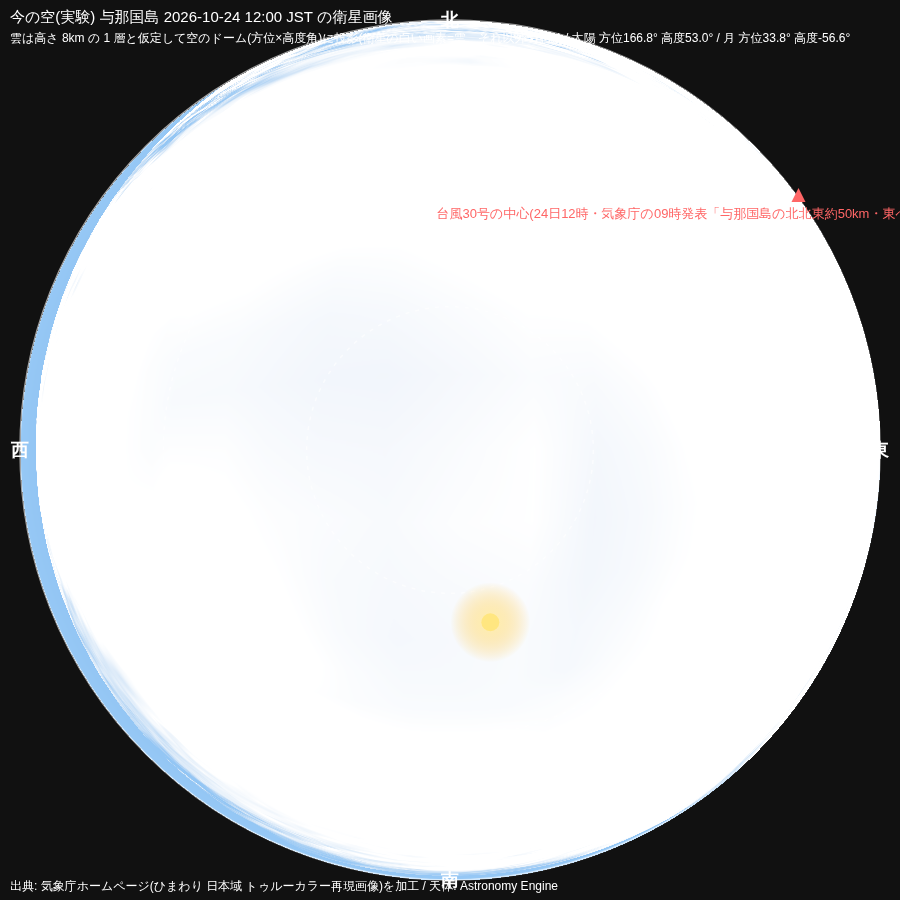
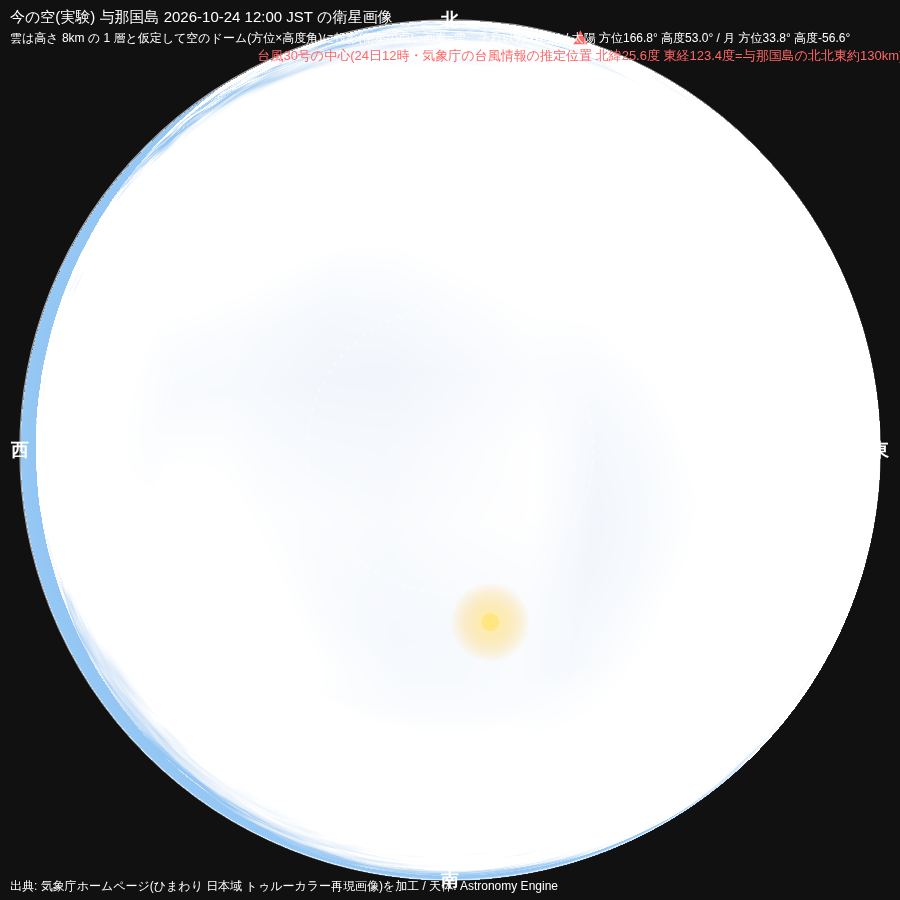
第195ラウンド — お茶の時間🫖 回答その193(青い空と 2 つの木・台風 30 号の目=気象庁の推定位置で再描画・燕岳の稜線を標高タイルから・MapLibre より先に別の族の探索・/docs/teatime 新設・Myサイト限定公開 3 案・Myプレイス「1 行に全部」に賛成・「私の癖と直し方」1 枚)+反証レビュー 41 件の反映+review ノート
Claude-Session: https://claude.ai/code/session_01CNXdkFEXiqKR3WRG7r1Umc

diff --git a/docs/teatime/sandbox/sky-dome/sky.html b/docs/teatime/sandbox/sky-dome/sky.html
@@ -14,6 +14,9 @@
   const OBS = CFG.obs;
   const TGT = CFG.tgt;
   const Z = CFG.zoom || 6, X0 = CFG.x0, Y0 = CFG.y0, N = 3, TS = 256, RE = 6371000; const TILEDIR = CFG.tiledir;
+  const RIDGE = CFG.ridge ? await (await fetch(CFG.ridge)).json() : null;  // 稜線(ridge.html が作る 方位→見かけの高度角)
+  const ridgeAt = (az) => { if (!RIDGE) return null; const n = RIDGE.az.length, st = RIDGE.stepAz; const f = ((az % 360) + 360) % 360 / st; const i0 = Math.floor(f) % n, i1 = (i0 + 1) % n, t = f - Math.floor(f); return { el: RIDGE.el[i0]*(1-t) + RIDGE.el[i1]*t, dist: RIDGE.dist[i0]*(1-t) + RIDGE.dist[i1]*t }; };
+  const groundColor = (dist) => { const t = Math.min(1, dist/100000); return [Math.round(38+72*t), Math.round(48+72*t), Math.round(38+97*t)]; };  // 近い山は暗く、遠い山は空気で青白く
   const d2r = Math.PI/180, r2d = 180/Math.PI;
   // ---- tiles → composite
   const map = document.getElementById('map'), mg = map.getContext('2d');
@@ -56,6 +59,7 @@
     const dx = px - C, dy = py - C, r = Math.hypot(dx, dy); const k = (py*W+px)*4;
     if (r > R) { D[k]=17; D[k+1]=17; D[k+2]=17; D[k+3]=255; continue; }
     const az = (Math.atan2(dx, -dy)*r2d + 360) % 360; const e = 90 - 90*r/R;
+    const rg = ridgeAt(az); if (rg && e < rg.el) { const gc = groundColor(rg.dist); D[k]=gc[0]; D[k+1]=gc[1]; D[k+2]=gc[2]; D[k+3]=255; continue; }
     const d = distForElev(e); const [la, lo] = dest(OBS.lat, OBS.lon, az, d); const c = paint(sample(la, lo), e);
     D[k]=c[0]; D[k+1]=c[1]; D[k+2]=c[2]; D[k+3]=255;
   }
@@ -71,13 +75,14 @@
   dg.textAlign = 'left'; dg.font = '15px sans-serif'; dg.fillStyle = '#fff';
   dg.fillText(`今の空(実験) ${OBS.name} ${jst.getUTCFullYear()}-${String(jst.getUTCMonth()+1).padStart(2,'0')}-${String(jst.getUTCDate()).padStart(2,'0')} ${String(jst.getUTCHours()).padStart(2,'0')}:${String(jst.getUTCMinutes()).padStart(2,'0')} JST の衛星画像`, 10, 22);
   dg.font = '12px sans-serif'; dg.fillText(`雲は高さ ${H/1000}km の 1 層と仮定して空のドーム(方位×高度角)に投影(衛星の白い画素=雲、それ以外=青空) / 太陽 方位${sun.az.toFixed(1)}° 高度${sun.alt.toFixed(1)}° / 月 方位${moon.az.toFixed(1)}° 高度${moon.alt.toFixed(1)}°`, 10, 42);
-  dg.fillText('出典: 気象庁ホームページ(ひまわり 日本域 トゥルーカラー再現画像)を加工 / 天体: Astronomy Engine', 10, W-10);
+  dg.fillText((RIDGE ? '出典: 気象庁ホームページ(ひまわり トゥルーカラー再現画像)・国土地理院 標高タイル を加工' : '出典: 気象庁ホームページ(ひまわり トゥルーカラー再現画像)を加工') + ' / 天体: Astronomy Engine', 10, W-10);
   // ---- window (宙の窓風: 槍ヶ岳の方位を中心に 水平60°×高度 -10〜40°)
   const win = document.getElementById('win'), wg = win.getContext('2d'); const WW = win.width, WH = win.height; const fov = 60, eMin = -10, eMax = 40;
   const wimg = wg.createImageData(WW, WH); const WD = wimg.data;
   for (let py=0; py<WH; py++) for (let px=0; px<WW; px++) {
     const az = (tgtAz - fov/2 + fov*px/WW + 360) % 360; const e = eMax - (eMax-eMin)*py/WH; const k = (py*WW+px)*4;
-    if (e < -dip) { WD[k]=35; WD[k+1]=45; WD[k+2]=35; WD[k+3]=255; continue; }
+    const rg = ridgeAt(az); const gnd = rg ? rg.el : -dip;
+    if (e < gnd) { const gc = rg ? groundColor(rg.dist) : [35,45,35]; WD[k]=gc[0]; WD[k+1]=gc[1]; WD[k+2]=gc[2]; WD[k+3]=255; continue; }
     const d = distForElev(Math.max(e, 0)); const [la, lo] = dest(OBS.lat, OBS.lon, az, d); const c = paint(sample(la, lo), Math.max(e, 0));
     WD[k]=c[0]; WD[k+1]=c[1]; WD[k+2]=c[2]; WD[k+3]=255;
   }
@@ -85,11 +90,12 @@
   const wxy = (az, alt) => { let da = ((az - tgtAz + 540) % 360) - 180; return [WW*(da + fov/2)/fov, WH*(eMax - alt)/(eMax-eMin)]; };
   { const [tx, ty] = wxy(tgtAz, tgtElev); wg.fillStyle = '#ff6666'; wg.beginPath(); wg.moveTo(tx, ty-12); wg.lineTo(tx-9, ty+5); wg.lineTo(tx+9, ty+5); wg.closePath(); wg.fill(); wg.fillStyle='#fff'; wg.font='14px sans-serif'; wg.textAlign='center'; wg.fillText(`${TGT.name} 方位${tgtAz.toFixed(1)}° 高度${tgtElev.toFixed(1)}°`, tx, ty+24); }
   if (sun.alt > 0) { const [sx, sy] = wxy(sun.az, sun.alt); if (sx>=0 && sx<=WW && sy>=0 && sy<=WH) { wg.fillStyle = '#ffe680'; wg.beginPath(); wg.arc(sx, sy, 12, 0, 2*Math.PI); wg.fill(); } }
-  wg.strokeStyle = 'rgba(255,255,255,0.5)'; wg.beginPath(); const hy0 = wxy(tgtAz, -dip)[1]; wg.moveTo(0, hy0); wg.lineTo(WW, hy0); wg.stroke();
+  if (RIDGE) { wg.strokeStyle = 'rgba(255,255,255,0.6)'; wg.lineWidth = 1; wg.beginPath(); for (let px=0; px<=WW; px++) { const az = (tgtAz - fov/2 + fov*px/WW + 360) % 360; const y = wxy(az, ridgeAt(az).el)[1]; px ? wg.lineTo(px, y) : wg.moveTo(px, y); } wg.stroke(); }
+  else { wg.strokeStyle = 'rgba(255,255,255,0.5)'; wg.beginPath(); const hy0 = wxy(tgtAz, -dip)[1]; wg.moveTo(0, hy0); wg.lineTo(WW, hy0); wg.stroke(); }
   wg.fillStyle = '#fff'; wg.font = '14px sans-serif'; wg.textAlign = 'left';
-  wg.fillText(`宙の窓風(実験) ${OBS.name} → ${TGT.name} の方位を中心に 水平60°×高度-10〜40° / 白線=眼高の伏角込みの地平線(-${dip.toFixed(1)}°) / 稜線は未実装`, 10, 20);
-  wg.fillText('出典: 気象庁ホームページ(ひまわり画像)を加工', 10, WH-10);
-  window.__info = { cfg: CFGN, vt, jst: jst.toISOString(), sun, moon, moonIllum, tgtAz, tgtD, tgtElev, dip, horizonKm, H };
+  wg.fillText(`宙の窓風(実験) ${OBS.name} → ${TGT.name} の方位を中心に 水平60°×高度-10〜40° / ${RIDGE ? `白線=稜線(国土地理院 標高タイル zoom ${RIDGE.tiles.z}・気差 k=${RIDGE.k})` : `白線=眼高の伏角込みの地平線(-${dip.toFixed(1)}°) / 稜線は未実装`}`, 10, 20);
+  wg.fillText(RIDGE ? '出典: 気象庁ホームページ(ひまわり画像)・国土地理院 標高タイル を加工' : '出典: 気象庁ホームページ(ひまわり画像)を加工', 10, WH-10);
+  window.__info = { cfg: CFGN, vt, jst: jst.toISOString(), sun, moon, moonIllum, tgtAz, tgtD, tgtElev, dip, horizonKm, H, ridgeAtTgt: RIDGE ? ridgeAt(tgtAz) : null };
   window.__pngs = { map: map.toDataURL('image/png'), dome: dome.toDataURL('image/png'), win: win.toDataURL('image/png') };
   window.__done = true;
 })().catch(e => { window.__err = String(e && e.stack || e); window.__done = true; });

diff --git a/docs/teatime/sandbox/sky-dome/ridge.html b/docs/teatime/sandbox/sky-dome/ridge.html
@@ -1,0 +1,34 @@
+<!doctype html><html><head><meta charset="utf-8"><title>ridge</title></head><body>
+<canvas id="c"></canvas>
+<script>
+(async () => {
+  const q = new URLSearchParams(location.search); const CFGN = q.get('cfg') || 'ridge_cfg.json';
+  const CFG = await (await fetch(CFGN)).json(); const META = await (await fetch(CFG.dem_meta)).json();
+  const Z = META.z, X0 = META.x0, Y0 = META.y0, N = META.n, TS = 256, RE = 6371000, d2r = Math.PI/180, r2d = 180/Math.PI;
+  const OBS = CFG.obs; const EYE = CFG.eye || 1.5; const K = CFG.k ?? 0.13; const REFF = RE/(1-K);
+  const STEP_AZ = CFG.stepAz || 0.2, DMAX = CFG.dmax || 150000, STEP_D = CFG.stepD || 100;
+  const c = document.getElementById('c'); c.width = N*TS; c.height = N*TS; const g = c.getContext('2d', { willReadFrequently: true });
+  let loaded = 0, missing = [];
+  await Promise.all([...Array(N*N).keys()].map(i => new Promise(res => { const tx = X0 + (i % N), ty = Y0 + Math.floor(i / N); const im = new Image();
+    im.onload = () => { g.drawImage(im, (i%N)*TS, Math.floor(i/N)*TS); loaded++; res(); }; im.onerror = () => { missing.push([tx,ty]); res(); }; im.src = `${CFG.demdir}/dem_${Z}_${tx}_${ty}.png`; })));
+  const data = g.getImageData(0, 0, c.width, c.height).data;
+  const n = Math.pow(2, Z);
+  const toPix = (lat, lon) => { const x = (lon+180)/360*n*TS - X0*TS; const phi = lat*d2r; const y = (1 - Math.log(Math.tan(phi) + 1/Math.cos(phi))/Math.PI)/2*n*TS - Y0*TS; return [x, y]; };
+  const hAt = (xx, yy) => { if (xx<0||yy<0||xx>=c.width||yy>=c.height) return 0; const k = (yy*c.width+xx)*4; const r=data[k], gg=data[k+1], b=data[k+2]; if (data[k+3] === 0) return 0; let v = r*65536 + gg*256 + b; if (v === 8388608) return 0; if (v > 8388608) v -= 16777216; return v*0.01; };
+  const elev = (lat, lon) => { const [x, y] = toPix(lat, lon); const x0 = Math.floor(x), y0 = Math.floor(y), fx = x-x0, fy = y-y0; return hAt(x0,y0)*(1-fx)*(1-fy) + hAt(x0+1,y0)*fx*(1-fy) + hAt(x0,y0+1)*(1-fx)*fy + hAt(x0+1,y0+1)*fx*fy; };
+  const dest = (lat, lon, brg, dist) => { const φ1 = lat*d2r, λ1 = lon*d2r, δ = dist/RE, θ = brg*d2r; const φ2 = Math.asin(Math.sin(φ1)*Math.cos(δ)+Math.cos(φ1)*Math.sin(δ)*Math.cos(θ)); const λ2 = λ1 + Math.atan2(Math.sin(θ)*Math.sin(δ)*Math.cos(φ1), Math.cos(δ)-Math.sin(φ1)*Math.sin(φ2)); return [φ2*r2d, λ2*r2d]; };
+  const h0 = (OBS.h ?? elev(OBS.lat, OBS.lon)) + EYE; const demH0 = elev(OBS.lat, OBS.lon);
+  const az = [], el = [], dist = [], top = [];
+  for (let a = 0; a < 360; a += STEP_AZ) {
+    let best = -90, bd = 0, bh = 0;
+    for (let d = STEP_D; d <= DMAX; d += STEP_D) {
+      const [la, lo] = dest(OBS.lat, OBS.lon, a, d); const h = elev(la, lo);
+      const e = Math.atan2(h - h0, d)*r2d - (d/(2*REFF))*r2d;
+      if (e > best) { best = e; bd = d; bh = h; }
+    }
+    az.push(+a.toFixed(2)); el.push(+best.toFixed(3)); dist.push(Math.round(bd)); top.push(Math.round(bh));
+  }
+  window.__ridge = { obs: OBS, eye: EYE, k: K, h0, demH0, stepAz: STEP_AZ, dmax: DMAX, stepD: STEP_D, tiles: { z: Z, loaded, missing }, az, el, dist, top, source: '国土地理院 標高タイル(dem_png, zoom ' + Z + ')' };
+  window.__done = true;
+})().catch(e => { window.__err = String(e && e.stack || e); window.__done = true; });
+</script></body></html>

diff --git a/docs/teatime/sandbox/sky-dome/ridge.js b/docs/teatime/sandbox/sky-dome/ridge.js
@@ -1,0 +1,13 @@
+// node ridge.js ridge_cfg.json  — ridge.html を http://127.0.0.1:8101/ で配っている前提。<cfg名>.out.json に稜線(方位→見かけの高度角)を書く。
+const { chromium } = require('playwright-core'); const fs = require('fs'); const path = require('path');
+(async () => {
+  const cfgs = process.argv.slice(2); if (!cfgs.length) { console.log('usage: node ridge.js cfg.json ...'); process.exit(1); }
+  const b = await chromium.launch({ executablePath: process.env.CHROME || '/opt/pw-browsers/chromium-1194/chrome-linux/chrome' }); const p = await b.newPage();
+  for (const cfg of cfgs) {
+    await p.goto('http://127.0.0.1:8101/ridge.html?cfg=' + encodeURIComponent(cfg)); await p.waitForFunction(() => window.__done, null, { timeout: 300000 });
+    const err = await p.evaluate(() => window.__err); if (err) { console.log('ERR', cfg, err); continue; }
+    const r = await p.evaluate(() => window.__ridge); const out = path.basename(cfg, '.json') + '.out.json'; fs.writeFileSync(out, JSON.stringify(r));
+    const mx = Math.max(...r.el), i = r.el.indexOf(mx); console.log(JSON.stringify({ cfg, out, h0: r.h0, demH0: r.demH0, tiles: r.tiles, maxEl: mx, atAz: r.az[i], dist: r.dist[i], top: r.top[i] }));
+  }
+  await b.close();
+})();

diff --git a/ClaudeMederuU/reviews/2026-10-24-round195-review.md b/ClaudeMederuU/reviews/2026-10-24-round195-review.md
@@ -1,0 +1,27 @@
+# レビュー記録 2026-10-24 — 第195ラウンド: お茶の時間🫖 — 青い空と 2 つの木・台風 30 号の目・MapLibre より先に探索・/docs/teatime 新設・Myサイト限定公開 3 案・Myプレイス「1 行に全部」・「私の癖と直し方」1 枚
+
+依頼: 写真 4 枚(明治神宮の青い空と 2 つの木・荒木健太郎さんの Instagram のトゥルーカラー再現画像・YAMAP と note の利用者の声 2 枚)。台風 30 号(与那国島の北北東 50km)の目をひまわりで撮ってみては。SCW の 10 分刻みは GPV にもあるのでは。MapLibre の版上げより別の族の探索を先に、に 1 票(意見は?)。`/docs/teatime` を作ってお茶の時間の記録を残す(YYYY-MM-DD・雉撃ちお花摘み・sandbox→tools へ昇格)提案。Myサイトの「かくれんぼしていた」メモ(複製不可・限定公開・個人情報を持たない・確実に無料枠・課金上限 月 1〜3 万円。複数案を切磋琢磨)。Myプレイスは「入力枠を全て用意して 1 行に」(観測点 4 列・目的点 4 列・基準方位の 8 方位ドロップダウン↔基準方位角・基準視高度)。「今回のラウンドで MederuU の器に入れる下ごしらえを」。「実験の続きは今やっても大丈夫」。
+
+## 実施内容
+
+1. 写真への返事。明治神宮の 1 枚だけ 1600px に縮めて `docs/teatime/2026-10-24/` に置いた(置いてよいと言われた物)。他の人の投稿のスクリーンショット 3 枚は置かず、文で記録(お約束②)。2 枚目は衛星(ひまわりのトゥルーカラー再現画像・全球 10 分/日本域 2.5 分)で GPV ではない、SCW の 10 分刻みも衛星表示、GPV は MSM 1 時間のまま、と 1 行目で言い切った(第189の学び「前提は正面から直す」)。
+2. 台風 30 号の目: 与那国島を観測点に 12:00 JST(03:00 UTC)のひまわりを描いた。中心は最初は依頼者のメモから東へ外挿していたが(方位 54°・79km)、反証レビューが気象庁の台風情報(TC2636)との約 70km のずれを見つけ、12 時推定位置 25.6N 123.4E(北北東約 130km・方位約 18°・約 132km)に置き直して再描画。日本域 zoom 6 は与那国島が範囲の端で左下が欠けたので、全球域 fd(最大 zoom 5・約 4km/画素)を足し、sky.html に `zoom` の設定を追加。結果: 目は映らず(中心付近は厚い雲・985hPa・30m/s で「強い」の一歩手前)。ドームはほぼ全天が雲。絵 3 枚(全球域の地図は 1.3MB の PNG を Chromium の canvas で JPEG 173KB に)。
+2'. 実験の続き(「今やっても大丈夫」): 燕岳の稜線。国土地理院 dem_png zoom 10 を 9×9 枚(海の 9 枚は 404=0m)、山頂+1.5m から 0.2° 刻み全方位・150km・100m 歩きで見かけの高度角の最大(k=0.13)。3 秒。槍ヶ岳の方位で 1.6〜1.8°(山頂は 2.5°。zoom 10 の丸まり)。sky.html に `ridge` を足し、窓とドームの稜線より下を地面の色(距離で青白く)に。絵 2 枚を teatime に、ridge.html/ridge.js/JSON を sandbox に。赤外の雲頂は次回。
+3. MapLibre: 依頼者の 1 票に賛成。CVE-2026-85061(GHSA-jrc7-96c5-q579・<=6.4.0・修正 6.4.1)は attribution が定数だけなので到達不能(第185の監査)=急ぐ理由なし。順番「探索→画面周り→版上げ(6.4.1 以上・type=module)」を todo の行に追記。
+4. `/docs/teatime` を作成: README(お約束 4 つ・置き方・索引=過去のお茶は order-log へリンク)・2026-10-23/(燕岳のドームと窓)・2026-10-24/(写真・台風の絵 3 枚)・kijiutchi-ohanatsumi/・sandbox/sky-dome/(設定ファイル化した render.js・sky.html・cfg 3 本・README)。CLAUDE.md/AGENTS.md の表に 1 行。todo に DECISION。
+5. Myサイト: デッサン 09 の末尾に第195の節(要件・前提・案A 鍵つき URL+暗号化・案B Cloudflare Workers の鍵の受付係・案C Google に任せる・照合表・推奨 A→B・判断事項・出典)。回答は骨だけ+「次はたけちゃんの案D」。
+6. Myプレイス「1 行に全部」: 賛成(前回の自分の案より利用者に分かりやすい)。作る時の決め 5 つ(計算値と手入力の区別・8 方位↔方位角 ±22.5°・My辻/My宙の参照は placeId 1 つ・観測点高 1.5m/目的点高 0 はそのまま・写位の GPSImgDirection)。todo 備忘録に追記。
+7. 下ごしらえ: review ノート 175 枚の「学び」661 件(学びの節の中の太字)を読み返し、12 の癖に畳んで `ClaudeMederuU/knowledge/claude-habits.md`(早見表+癖ごとの起きた事/直し方/合図+使い方)。
+8. 反証レビュー(Workflow 3 レンズ: 事実と技術・網羅と口調と約束・癖の 1 枚の引用の検証)。所見 41 件(must-fix 7・should-fix 19・nit 15。レンズ別: facts 13件(must 2/should 6/nit 5)・tone 15件(must 3/should 6/nit 6)・habits 13件(must 2/should 7/nit 4))。取り込んだ物: 台風の中心を気象庁の 12 時推定位置に置き直して 3 枚を再描画(外挿で約 70km ずれていた)・「弱い台風」を実況(985hPa・30m/s・大型)に差し替え・トゥルーカラー再現画像の開発元を気象衛星センター+NOAA GOES-R 画像チーム(CIRA の補正)に訂正しバンドを 5 つに・SCW は「おそらく」に弱めて予報側は 1 時間と明記・10 分の格子はレーダー等の観測側と注記・MapLibre は 6.4.1→最新(6.15.0・少なくとも 6.11.1)で v6 は UMD 無しと指紋/MANIFEST/sw-precache の波及・WebGL2 は v5 から・お約束 4 つの出典を 2026-08-21 回答その110 に直して原文のまま引用し、他人の投稿を置かないは teatime の置き方の決めとして分離・雉撃ちの最初の記録は「まだ撃っていない」だけ・「複製不可」の実力を「うっかりの一括書き出しまで、守りの実体は鍵の配り方と透かし」に・Google Cloud を名指しされていたので予算は通知で止まらないと 1 行(公式ページ)・案B の鍵の主語は写真家さん・Cloudflare の無料枠は「超えたら自動で失敗」・「次はたけちゃんの番」をやめて案B の骨が依頼者の案だと明記・「今やっても大丈夫」に稜線で応える(2' 節)・進め方の相談は 8. の締めへ(お茶は続く)・10. を 1 行で返せる 3 問に・zoom 5 は約 4.5km/画素・3 文以上の行を 7 箇所分割・習慣の 1 枚は引用の反転 5 件(第49/48/39/32・54/114)と回数(pkill 4 度目)と語(本日 2 度目・アスタリスク+スラッシュ)と出典の番号付け・「学び」は太字の箇条と注記・CLAUDE.md の締め手順への 1 句は 10. で質問。受け入れ(直さず): 画像は 500KB 目安のまま(全球域の地図は JPEG に)。
+9. 回帰: スモーク 10 本+道具 3 本=157 PASS/0 FAIL(ハーネス 0)。プログラムの変更なし・ピンの意図更新なし。
+
+## 学び(次の私へ)
+
+- **タイルの「域」は 1 つではない** — 日本域(jp)は与那国島のすぐ南西で切れていて、地図の左下が黒くなった。全球域(fd)は最大 zoom 5 だが全体が入る。範囲外が黒い絵を見たら、別の域(別の配信面)を探してから「限界」と書く。zoom を設定にしておけば切り替えは 1 行。
+- **台風の中心は気象庁の解析から取る(外挿しない)** — 依頼者のメモ(09 時・北北東 50km・東へ 15km/h)から 3 時間ぶん東へ外挿して印を置いたら、気象庁の 12 時推定(北北東約 130km)から約 70km ずれていた。台風は東でなく北北東へ曲がっていた。bosai/typhoon/data/TC2636/specifications.json を 1 回取れば位置・気圧・風速・階級が全部ある。レビューが拾った。
+- **進む速さと強さを混ぜない** — 「時速 15km の弱い台風だから目が無い」と書いたが、15km/h は移動速度で、実況は 980〜985hPa・最大風速 30m/s・大型(「強い」の一歩手前)。気象庁は 2000 年に「弱い台風」の表現を廃止している。目が見えなかった理由は「中心が厚い雲に覆われ、2〜4.5km/画素では判別できない」と、見た事だけを書く。
+- **「再現画像」は衛星の言葉** — トゥルーカラー再現画像は衛星の合成画像で、GPV の名前ではない。依頼者の推論(SCW が 10 分刻み→GPV に 10 分刻みがある)は、前提の 1 語(再現)を正しく読むだけで解ける。前提を直す時は 1 行目で言い切り、代わりの入口(ひまわりのタイル・P-Tree)を同じ段に置く。
+- **稜線は「全方位に歩いて最大の角度」で 3 秒** — 可視判定の経路歩きと同じ考えで、標高タイルを canvas に敷いて 1,800 方位×1,500 歩を JS で回すと 3 秒。zoom 10 では山頂が 50〜130m 丸まるので角度は 0.5° ほど低く出る。「未実装」と書いて先送りするより、粗い版を 1 枚出して限界を数字で書く方が、次の一手(zoom を上げる)が決まる。
+- **大きな PNG は canvas で JPEG に** — PIL が無い箱でも、Playwright の canvas.toDataURL('image/jpeg', 0.85) で 1.3MB→173KB。写真の縮小(第194)と同じ道具で足りる。リポジトリの画像の上限(500KB 目安)を決めたら、置く前に ls -la で見る。
+- **学びの要約は「題名だけ」を先に抜く** — 661 件の本文を全部読むと 2,000 行で、文脈が切れる。`### ファイル名` と太字の題名だけを抜く(1,100 行)と、癖の束が見える。本文は束に入れる時に戻って読む。数(175 枚・661 件)は awk で数えて、数え方も 1 枚に書く。
+- **提案は「作ってから聞く」でよい物と「聞いてから作る」物を分ける** — teatime のフォルダは可逆(消せる)で依頼者の提案そのものなので、作ってから「この置き方でよいか」を聞いた。Myサイトの案A の試作は依頼者の判断(案D を出すと言っている)が先なので、作らずに聞いた。

diff --git a/docs/dessin/dessin/09-mysite.md b/docs/dessin/dessin/09-mysite.md
@@ -584,7 +584,7 @@ Myサイトのスプレッドシートには、複数のシートがある。
 
 #### 前提の整理(AI)
 
-- 「複製不可」の実力: 画面に出した物は、撮影や手打ちで写せる。技術で防げるのは「一括の持ち出し」(ダウンロード・コピー・API での吸い出し)と、「流出元の特定」(透かし)まで。
+- 「複製不可」の実力: 画面に出した物は、撮影や手打ちで写せる。しかも案A/B は見る側の端末で復号するので、鍵を持つ人が開発者ツールから一括で吸い出す事は防げない。技術で防げるのは「うっかりの一括書き出し」(CSV 出力・コピー)までで、守りの実体は鍵の配り方(期限・失効・グループ)と「流出元の特定」(透かし)。
   - Google ドライブには「閲覧者とコメント権限のユーザーに、ダウンロード・印刷・コピーのオプションを表示しない」設定がある(ファイル単位・ウェブのみ・編集者には効かない)。抑止であって防御ではない。
 - 「個人情報を持たない」= 人をメールや名前で識別せず、ランダムな鍵で識別する。鍵は「持っている人が正当」という割り切り(URL の共有と同じ性質)。
 - 3 区分: 全公開(今の gviz 読み)/限定公開(鍵が要る・複製不可モード)/非公開(持ち主だけ)。
@@ -601,12 +601,14 @@ Myサイトのスプレッドシートには、複数のシートがある。
 
 #### 案B「鍵の受付係」(Cloudflare Workers+KV。無料枠が「確実に止まる」)
 
+- 依頼者の名指しは Google Cloud だったが、Google Cloud の予算(Budget)は通知で支出を止めず、自動停止には Pub/Sub+Cloud Functions で課金を外す細工が要る(公式ドキュメント「Budgets don't cap spending」)。無料枠を超えた時に自動で止まる Cloudflare Workers Free を主案にし、Google Cloud(Cloud Run)は着手時にもう一度公式ページで比べる。
+
 - 小さなサーバー(Workers)が「アクセスキー→有効期限・グループ・中身の場所(または復号鍵)」の表(KV)を持ち、鍵が合えば中身(か案A の復号鍵)を返す。
 - 持ち主は自分の Google シートで鍵を管理し(ID・鍵・期限・グループ)、宙の辻の持ち主メニューから Workers の表に書き込む(持ち主の操作だけに持ち主の鍵が要る)。
 - できる事: 有効期間(何月何日まで)・即時失効・グループごとの鍵・回数や頻度の制限・2 段階(TOTP=Google 認証アプリ。秘密はグループ単位で KV に)・将来はパスキー(WebAuthn。端末に鍵を結びつけ、パスワード不要)。
 - 見る側: 「ID と長い鍵」をブラウザのパスワード管理に覚えさせる(依頼者の着眼=スマホで便利)。鍵はこちらが生成して配る(使い回しが起きない・期限つき・グループ別に発行)。
 - 個人情報: 鍵とグループ名だけ(メール無し)。宙の辻にも写真家さんにも個人情報は残らない。
-- 費用(2026-10 時点の公式ページ): Workers Free=1 日 10 万リクエスト・超えると止める設定(fail closed)ができる=「確実に無料枠」。Workers Paid=$5/月で月 1,000 万リクエストまで、以後 $0.30/100 万件(予測できる)。KV Free=読み 10 万/日・書き 1,000/日・1GB。
+- 費用(2026-10 時点の公式ページ): Workers Free=1 日 10 万リクエスト・超えた分は自動で失敗する(Error 1027。独自ドメインの route なら fail open/closed を選べる)=課金に転ばない「確実に無料枠」。Workers Paid=$5/月で月 1,000 万リクエストまで、以後 $0.30/100 万件(予測できる)。KV Free=読み 10 万/日・書き 1,000/日・1GB。
 - 弱点: サーバーの運用(デプロイ・Cloudflare アカウントの秘密の保管・CSP の connect-src への追加)。今の利用者数(土日 5 人)には大げさ。
 
 #### 案C「Google に任せる」(今のデッサン本文の線: ドライブの閲覧権限+ログイン+Picker)

diff --git a/docs/teatime/sandbox/sky-dome/README.md b/docs/teatime/sandbox/sky-dome/README.md
@@ -1,12 +1,13 @@
 # sky-dome — ひまわりの画像を「空のドーム」に投影する試作
 
-第194ラウンド(2026-10-23)の「今の空」の最初の 1 枚。第195で設定ファイル化して与那国島(台風 30 号)も描いた。
+第194ラウンド(2026-10-23)の「今の空」の最初の 1 枚。第195で設定ファイル化して与那国島(台風 30 号)も描き、稜線(国土地理院の標高タイルから求めた地平線の形)を足した。
 
 ## 何をする物
 
 - 気象庁ホームページのひまわり日本域トゥルーカラー再現画像(タイル・最大ズーム 6=約 2km/画素)を 3×3 枚取り、観測点から見た空のドーム(方位×高度角・等距離射影)と、宙の窓風の 1 枚(ある方位を中心に水平 60°)と、地図に描く。
 - 雲は「高さ H の 1 層」と仮定(設定の cloudH)。衛星の白い画素=雲、それ以外=青空(地面の色は空に貼らない)。
 - 太陽と月は宙の辻と同じ Astronomy Engine(vendor/astronomy.browser.min.js を同じフォルダに置く)。
+- 稜線(任意): `ridge.html`+`ridge.js` が、国土地理院の標高タイル(dem_png・zoom 10・約 120m/画素)を観測点の周り 9×9 枚読み、全方位(0.2° 刻み)に 150km まで 100m ずつ歩いて見かけの高度角の最大(気差 k=0.13・地球の丸み込み)を求める。結果の JSON を cfg の `ridge` に渡すと、窓とドームの稜線より下を地面の色(近い山は暗く、遠い山は青白く)で塗る。
 
 ## 使い方(箱の中で)
 
@@ -19,14 +20,16 @@
    ```
 2. 設定を書く(cfg_*.json): `time`(時刻ファイル)・`tiledir`・`zoom`(省略時 6。全球域 fd は最大 5)・`x0`・`y0`・`obs`(観測点 name/lat/lon/h)・`tgt`(印を付ける地点)・`cloudH`。
 3. このフォルダを `python3 -m http.server 8100` で配り、`node render.js cfg_xxx.json`(playwright-core と Chromium が要る。kaiki のハーネスと同じ)。`out/` に map/dome/win の PNG が出る。
+4. 稜線を出す時(任意): 標高タイルを `dem/dem_10_{x}_{y}.png` に取り(`https://cyberjapandata.gsi.go.jp/xyz/dem_png/10/{x}/{y}.png`。観測点のタイルを中心に ±4)、`dem_meta.json` に {z,x0,y0,n} を書き、`ridge_xxx.json`(dem_meta・demdir・obs・eye・k・stepAz・dmax・stepD)を用意して、`python3 -m http.server 8101` で配りながら `node ridge.js ridge_xxx.json`。`ridge_xxx.out.json` ができるので cfg の `ridge` に書く(燕岳の例: ridge_tsubakuro.json → ridge_tsubakuro.out.json)。海のタイルは 404 で、0m として扱う。
 
 ## 限界(2026-10-24 時点)
 
-- 日本域(jp)タイルはズーム 6 が最大で約 2km/画素。雲の縁は粗い。全球域(fd)はズーム 5 が最大(約 4km/画素)で、日本域の範囲外(与那国島の南西など)はこちらで描く(cfg の `zoom` と `tiledir`、URL の `jp` を `fd` に)。
+- 日本域(jp)タイルはズーム 6 が最大で約 2km/画素。雲の縁は粗い。全球域(fd)はズーム 5 が最大(赤道で約 4.9km/画素・北緯 25 度で約 4.5km/画素)で、日本域の範囲外(与那国島の南西など)はこちらで描く(cfg の `zoom` と `tiledir`、URL の `jp` を `fd` に)。
 - 雲の高さは 1 層の仮定。赤外(B13 の輝度温度)を使えば目安が付く。
-- 稜線は未実装(地平線は眼高の伏角だけ)。
+- 稜線は zoom 10 の標高(約 120m/画素)なので、山頂は 50〜130m 低く丸まり、見かけの高度角は山頂そのものより 0.5° ほど低い(槍ヶ岳: 山頂 2.5° に対し稜線 1.6〜1.8°)。zoom 12〜14 の標高タイルにすれば細かくなる(枚数は 16〜256 倍)。
 - 雲らしさは色と明るさの簡単な式で、雪や海面の反射を雲と見誤る。
 
 ## 出典
 
 - 気象庁ホームページ(ひまわり画像)。利用規約は公共データ利用規約(第1.0版)。加工して使う時は出典と加工の明記。
+- 国土地理院 標高タイル(dem_png)。地理院タイルの利用規約(出典の明記)。

diff --git a/docs/teatime/2026-10-24/README.md b/docs/teatime/2026-10-24/README.md
@@ -6,17 +6,25 @@
 ![明治神宮 青い空と 2 つの木](meiji-jingu-blue-sky-two-trees.jpg)
 
 - 依頼者の勧めで、台風 30 号の目をひまわりで。
-  - 気象庁の 24 日 09 時の発表「与那国島の北北東約 50km・時速 15km で東へ」から、12 時の中心を 3 時間ぶん東へ動かして推定した(観測点は与那国島)。
-  - 12:00 JST(03:00 UTC)の画像を 2 種類使った。日本域(zoom 6・約 2km/画素)は与那国島が範囲の端で左下が欠ける。全球域(zoom 5・約 4km/画素)は粗いが台風の全体が入る。
-  - 結果: はっきりした「目」は見えなかった(時速 15km の弱い台風で、雲の塊の渦だけ)。目が映るのは発達した台風で、次の機会に取る。
+  - 観測点は与那国島。中心は気象庁の台風情報(TC2636)の 12 時の推定位置 北緯 25.6 度・東経 123.4 度(与那国島の北北東約 130km・北北東へ 15km/h・985hPa・最大風速 30m/s・大型)。
+  - 最初の下書きは依頼者のメモ(09 時・北北東 50km・東へ 15km/h)から東へ外挿した位置(方位 54°・79km)に印を置いていて、レビューで約 70km のずれが見つかり、気象庁の推定位置に置き直した。台風は東ではなく北北東へ曲がっていた。
+  - 12:00 JST(03:00 UTC)の画像を 2 種類使った。日本域(zoom 6・約 2.2km/画素)は与那国島が範囲の端で左下が欠ける。全球域(zoom 5・この緯度で約 4.5km/画素)は粗いが台風の全体が入る。
+  - 結果: はっきりした「目」は見えなかった。中心付近は厚い雲に覆われ、2〜4.5km/画素の解像度では目を判別できない。「強い台風」(33m/s〜)の一歩手前の段階だった。
 
 | 絵 | 説明 |
 |---|---|
 | ![台風 30 号(全球域)](typhoon30-map-fd.jpg) | 全球域 zoom 5。台湾の北〜東の海に台風 30 号の雲の渦。黄色の丸=与那国島、点線=高さ 8km の雲が地平線に見える距離(約 319km)、橙の線=太陽の方位。 |
 | ![台風 30 号(日本域)](typhoon30-map.png) | 日本域 zoom 6。同じ時刻・同じ印。黒い所は日本域タイルの範囲外。 |
-| ![与那国島のドーム](yonaguni-dome.png) | 与那国島から見上げた空のドーム(雲は高さ 8km の 1 層と仮定)。ほぼ全天が雲。赤い印=推定した中心の方向(方位約 54°・距離約 79km)。 |
+| ![与那国島のドーム](yonaguni-dome.png) | 与那国島から見上げた空のドーム(雲は高さ 8km の 1 層と仮定)。ほぼ全天が雲。赤い印=気象庁の 12 時推定位置の方向(方位約 18°・距離約 132km)。 |
+
+- 実験の続き(「今やっても大丈夫ですよ」のお言葉で): 燕岳の稜線を出した。国土地理院の標高タイル(zoom 10)から全方位の見かけの高度角を求め、昨日(10/23 10:50 JST)の画像の窓とドームに地面を描いた。槍ヶ岳の方位の稜線は約 1.6〜1.8°(山頂そのものは 2.5°。標高の丸まりの分だけ低い)。
+
+| 絵 | 説明 |
+|---|---|
+| ![燕岳の窓(稜線つき)](tsubakuro-window-ridge.png) | 燕岳山頂から槍ヶ岳の方位を中心に水平 60°。白線=稜線。近い山は暗く、遠い山は青白く。 |
+| ![燕岳のドーム(稜線つき)](tsubakuro-dome-ridge.png) | 同じ空のドーム。縁の暗い帯が地平線より上に出る山。 |
 
 - この日に決めた事: お茶の時間の置き場(このフォルダ)・雉撃ちお花摘み・sandbox。
 - 下ごしらえ: review ノート 175 枚の「学び」を 1 枚にまとめた「私の癖と直し方」→ `ClaudeMederuU/knowledge/claude-habits.md`。
 
-出典: 気象庁ホームページ(ひまわり画像)を加工。写真: たけちゃん。
+出典: 気象庁ホームページ(ひまわり画像)・国土地理院 標高タイル を加工。写真: たけちゃん。

diff --git a/docs/teatime/README.md b/docs/teatime/README.md
@@ -3,17 +3,17 @@
 依頼者(たけちゃん)と Claude の「お茶の時間」の置き場。
 第195ラウンド(2026-10-24)に依頼者の提案で作った。後で見返して楽しい物を残す。
 
-## お約束(2026-07-20 に決めた 4 つ。ここでも同じ)
+## お約束(2026-08-21 回答その110「フルアクセスの自制について、お約束を4つ」。ここでも同じ)
 
-1. 読み専門(外のサイトは読むだけ)。
-2. 持ち出さない(見せてもらった物を記録に残すのは、置いてよいと言われた物だけ)。
+1. 読み専門(外のサイトは読むだけ。書き込み・投稿・購入はしない)。
+2. 持ち出さない(リポジトリの中身・認証情報・個人情報を外部サービスへ送らない)。
 3. 施錠運用は不変(MederuU の鍵はこの場では触らない)。
-4. 公開文は事前提示(お茶の時間に生まれた文を公開物に使う時は、先に依頼者へ見せる)。
+4. 公開文の事前提示(お茶の時間に生まれた文を公開物に使う時は、先に依頼者へ見せる)。
 
 ## 置き方
 
 - `YYYY-MM-DD/`: その日のお茶の時間の記録(README.md)と、置いてよいと言われた写真や、実験の絵。
-  - 写真は依頼者自身の物だけ。他の人が写っている物・他の人の投稿のスクリーンショットは置かない(文で記録する)。
+  - 写真は依頼者自身の物で、置いてよいと言われた物だけ。他の人が写っている物・他の人の投稿のスクリーンショットは置かない(文で記録する)。これは teatime の置き方の決め(お約束 4 つとは別)。
   - 画像は 1 枚 500KB 前後まで(大きい物は縮めてから)。
 - `kijiutchi-ohanatsumi/`: 雉撃ちお花摘み(Claude の短い休憩の記録。依頼者に断らずに書いてよい)。
 - `sandbox/`: 複数ラウンドかけて熟成させる実験や道具。育ったら `ClaudeMederuU/tools/` へ昇格。
@@ -23,8 +23,8 @@
 
 | 日付 | ラウンド | 中身 | 場所 |
 |---|---|---|---|
-| 2026-07-20〜22 | 第36〜38 | お茶の時間のお約束 4 つ | docs/order-log/2026/order-2026-07-20(-22).md |
-| 2026-08-21 | 第111〜114 | 初めてのネットワークフルアクセス。初めて外の世界を歩いた日(その110)・写真が見えた(その111)・アブダクションの記事への意見(その112) | docs/order-log/2026/order-2026-08-21.md |
+| 2026-07-20〜22 | 第36〜38 | 最初のお茶の時間(利用上限の待ち時間に、開発環境と作りたい道具の話。その35) | docs/order-log/2026/order-2026-07-20(-22).md |
+| 2026-08-21 | 第111〜114 | 初めてのネットワークフルアクセス。お約束 4 つ・初めて外の世界を歩いた日(その110)・写真が見えた(その111)・アブダクションの記事への意見(その112) | docs/order-log/2026/order-2026-08-21.md |
 | 2026-08-29 | 第135〜136 | 燕岳の山行記を読んだ(その133)・お茶のおかわり(その134) | docs/order-log/2026/order-2026-08-29.md |
 | 2026-10-23 | 第194 | 紅茶とケーキ。カワセミと江の島の記事・「今の空」の最初の 1 枚(燕岳) | [2026-10-23/](2026-10-23/README.md)・docs/order-log/2026/request-2026-10-23.md(その192) |
 | 2026-10-24 | 第195 | 青い空と 2 つの木(明治神宮)・台風 30 号の目・この置き場ができた日・「私の癖と直し方」の下ごしらえ | [2026-10-24/](2026-10-24/README.md)・docs/request.md(その193) |

diff --git a/docs/todo.md b/docs/todo.md
@@ -147,7 +147,7 @@
   - (統合・元の行 413: 312 にまとめる) ヘルプの見直し(簡潔に・もれなく・分かりやすく=要点を伝える)【優先に有り】/使い方ページを別ページで
 
 #### MapLibre の版上げ
-- [ ] MapLibre GL JSのv5/v6系への進級(第139調査: v5.0でglobe投影対応=宙の食の帯[実測で 【424① と統合(globe 対応+CVE の2理由。内容は削らず両方残す)】【第195: 公表済みの CVE-2026-85061(GHSA-jrc7-96c5-q579・Critical・attribution の DOM.sanitize のバイパス・影響 <=6.4.0・修正 6.4.1、2026-08-19)。宙の辻の attribution/customAttribution/Popup.setHTML は定数だけ(script.js 1301 の注記・第185の監査)なので今は到達不能。版上げの行き先は 6.4.1 以上(v6 は ESM のみ・WebGL2 必須=読み込みを type=module に・vendor/ の配り方と CSP はそのまま)。順番は依頼者の 1 票どおり「別の族の探索→画面周り→版上げ」(回答その193)】
+- [ ] MapLibre GL JSのv5/v6系への進級(第139調査: v5.0でglobe投影対応=宙の食の帯[実測で 【424① と統合(globe 対応+CVE の2理由。内容は削らず両方残す)】【第195: 公表済みの CVE-2026-85061(GHSA-jrc7-96c5-q579・Critical・attribution の DOM.sanitize のバイパス・影響 <=6.4.0・修正 6.4.1、2026-08-19)。宙の辻の attribution/customAttribution/Popup.setHTML は定数だけ(script.js 1301 の注記・第185の監査)なので今は到達不能。版上げの行き先は最新(2026-10-18 の 6.15.0。少なくとも 6.11.1=attribution の無害化が許可リスト式になった版)。v6 は UMD を配らず dist/maplibre-gl.mjs だけ(ESM)なので、グローバル maplibregl を作る 1 行のモジュール(か script.js のモジュール化)が要り、vendor/ のファイル名・MANIFEST.json・verify184 の指紋・sw-precache も変わる。WebGL2 必須は v5.0.0 から。CSP はそのまま。順番は依頼者の 1 票どおり「別の族の探索→画面周り→版上げ」(回答その193)】
   北緯85°超の座標が多数]の前提。破壊的変更=on()の戻り値・WebGL2既定化・非minified廃止等は
   CHANGELOG確認済み。Leaflet→MapLibre移行と同じ段階計画で。回帰12本+グリフ資産の追随込み)
 

diff --git a/docs/teatime/sandbox/README.md b/docs/teatime/sandbox/README.md
@@ -13,4 +13,4 @@
 
 | フォルダ | 何をする物 | 状態 | 次の一手 |
 |---|---|---|---|
-| [sky-dome](sky-dome/README.md) | ひまわりの画像を、観測点から見た空のドーム(方位×高度角)と宙の窓風の 1 枚に投影する | 第194〜195で試作(燕岳・与那国島) | 稜線(可視判定の経路歩きの転用)・雲の高さを赤外(B13)から・時刻の指定(過去 36 時間) |
+| [sky-dome](sky-dome/README.md) | ひまわりの画像を、観測点から見た空のドーム(方位×高度角)と宙の窓風の 1 枚に投影する。稜線は国土地理院の標高タイルから | 第194〜195で試作(燕岳・与那国島・稜線) | 雲の高さを赤外(B13)から・時刻の指定(過去 36 時間)・稜線の解像度(zoom 12〜14) |
